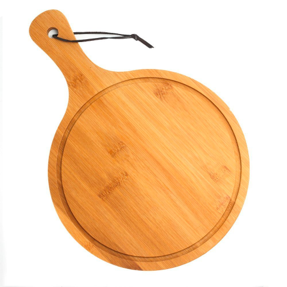
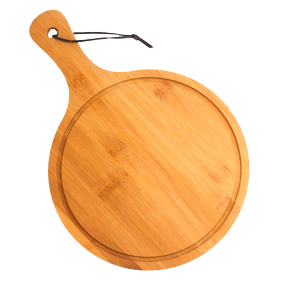
+added slogan +added confirm pizza button +added edit pizza button +added pizza box +removed background of pizza board

diff --git a/components/PizzaPreview/_PizzaPreview.scss b/components/PizzaPreview/_PizzaPreview.scss
@@ -18,39 +18,33 @@
             max-width: 30%;
             top: 44%;
             right: 33%;
-            // height: auto;
         }
         &.medium{
             max-width: 50%;
             top: 34%;
             right: 23%;
-            // height: auto;
         }
 
         &.large{
             max-width: 65%;
             top: 27%;
             left: 20%;
-            // height: auto;
         }
 
         @media only screen and ($tablet) {
             &.small{
                 width: rem(100);
-                // height: rem(100);
                 top: rem(120);
                 left: rem(100);
             }
             &.medium{
                 width: rem(150);
-                // height: rem(150);
                 top: rem(95);
                 right: rem(83);
             }
     
             &.large{
                 width: rem(200);
-                // height: rem(200);
                 top: rem(70);
                 left: rem(50);
             }
@@ -58,8 +52,37 @@
         
     }
 
+    &__dough{
+        width: 100%;
+        height: auto;
+        position: absolute;
+        max-width: 30%;
+        top: 45%;
+        left: 35%;
+
+        @media only screen and ($tablet) {
+            width: 100px;
+            top: 130px;
+            left: 100px;
+        }
+    }
+
+    &__dough-rolling{
+        width: 100%;
+        height: auto;
+        position: absolute;
+        max-width: 60%;
+        top: 40%;
+        left: 27%;
+
+        @media only screen and ($tablet) {
+            top: 120px;
+            left: 70px;
+        }
+    }
+
     &__container{
-        position: relative;
+        position: fixed;
         
     }
     &__topping{
@@ -69,33 +92,28 @@
             left: 41%;
             top: 48%;
             width: 21%;
-            // height: auto;
         }
 
         &.medium{
             left: 34%;
             top: 42%;
             width: 35%;
-            // height: auto;
         }
 
         &.large{
             top: 34%;
             left: 28%;
             width: 50%;
-            // height:auto;
         }
 
         @media only screen and ($tablet) {
             &.small{
                 width: rem(70);
-                // height: auto;
                 top: rem(137);
                 left: rem(110);
             }
             &.medium{
                 width: 110px;
-                // height: auto;
                 top: 120px;
                 left: 95px;
             }
@@ -104,7 +122,6 @@
                 top: rem(95);
                 left: rem(75);
                 width: rem(152);
-                // height: auto;
             }
         }
     }

diff --git a/components/PizzaMaker/PizzaMaker.js b/components/PizzaMaker/PizzaMaker.js
@@ -7,10 +7,14 @@ const PizzaMaker = () => {
 
     const [selectedTopping, setTopping] = useState([]);
     const [pizzaSize, setPizzaSize] = useState("");
+    var [isPizzaReady, setPizzaReady] = useState(false);
+
+
     return(
         <div className= "pizzaMaker">
             <div className = "pizzaMaker__steps">
-                <h1 className = "pizzaMaker__step-title" id="step1"> 1. Choose Your Size</h1>
+                {isPizzaReady != true && <div>
+                    <h1 className = "pizzaMaker__step-title" id="step1"> 1. Choose Your Size</h1>
                     <div className = "pizzaMaker__size-container">
                         <button className = "pizzaMaker__size-selector--size" onClick = {() => setPizzaSize("small")}>
                             <h4 className = "pizzaMaker__size-title">Small</h4> 
@@ -25,12 +29,17 @@ const PizzaMaker = () => {
                             <img className = "pizzaMaker__size-large" src = "/pizza.png"></img>
                         </button>
                     </div>
-                <h1 className = "pizzaMaker__step-title" id="step2"> 2. Choose Your Toppings</h1>
-                    <ToppingsList setTopping = {setTopping} selectedTopping = {selectedTopping} />
-                <h1 className = "pizzaMaker__step-title" id="step3"> 3. Verify your order</h1>
+                
+                    <h1 className = "pizzaMaker__step-title" id="step2"> 2. Choose Your Toppings</h1>
+                        <ToppingsList setTopping = {setTopping} selectedTopping = {selectedTopping} />
+                </div>}
+                <h1 className = "pizzaMaker__step-title" id="step3"> 3. Confirm your order</h1>
+                    {isPizzaReady != false && pizzaSize != "" && <div> You ordered a {pizzaSize} pizza with {selectedTopping.map( item => ( `${item}, `))}</div>}
+                    {isPizzaReady != true &&<button className = "pizzaMaker__make-pizza--button"onClick={() => setPizzaReady(true) }>Make my pizza </button>}
+                    {isPizzaReady != false && <button onClick={() => setPizzaReady(false) }> Edit pizza </button>}
             </div>
             <div className = "pizzaMaker__preview"> 
-                <PizzaPreview selectedTopping = {selectedTopping} pizzaSize = {pizzaSize}/>
+                <PizzaPreview selectedTopping = {selectedTopping} pizzaSize = {pizzaSize} isPizzaReady = {isPizzaReady}/>
             </div>
         </div>
     )

diff --git a/components/PizzaPreview/PizzaPreview.js b/components/PizzaPreview/PizzaPreview.js
@@ -3,8 +3,10 @@ const PizzaPreview = params => {
     return(
         <div className = "pizzaPreview">
             
-            <div className = {`pizzaPreview__container ${params.pizzaSize}`}>
+            {params.isPizzaReady == false && <div className = {`pizzaPreview__container ${params.pizzaSize}`}>
                 <img className = "pizzaPreview__wooden-board" src = "/pizza-board.png"/>
+                {params.pizzaSize == "" && <img className = {`pizzaPreview__dough ${params.pizzaSize}`} src = "/dough.png"></img>}
+                {/* {params.pizzaSize == "" && <img className = {`pizzaPreview__dough-rolling ${params.pizzaSize}`} src = "/dough-to-pizza.png"></img>} */}
                 {params.pizzaSize != "" && <img className = {`pizzaPreview__pizza ${params.pizzaSize}`} src = "/pizza.png"></img>}
                 {params.selectedTopping.includes("Chicken") && <img className = {`pizzaPreview__topping ${params.pizzaSize}`} src = "/Chicken-pieces.png"></img>}
                 {params.selectedTopping.includes("Pepperoni") && <img className = {`pizzaPreview__topping ${params.pizzaSize}`} src = "/pepperoni-pieces.png"></img>}
@@ -16,7 +18,8 @@ const PizzaPreview = params => {
                 {params.selectedTopping.includes("Pineapple") && <img className = {`pizzaPreview__topping ${params.pizzaSize}`} src = "/pineapple-pieces.png"></img>}
                 {params.selectedTopping.includes("Tomato") && <img className = {`pizzaPreview__topping ${params.pizzaSize}`} src = "/tomato-pieces.png"></img>}
                 {params.selectedTopping.includes("Basil") && <img className = {`pizzaPreview__topping ${params.pizzaSize}`} src = "/basil-pieces.png"></img>}
-            </div>
+            </div>}
+            {params.isPizzaReady == true &&<img src="/pizza-box.png"></img>}
            
         </div>
     )

diff --git a/pages/index.js b/pages/index.js
@@ -5,11 +5,12 @@ export default function Home() {
   return (
     <div>
       <Head>
-        <title>Build Your Pizza!</title>
+        <title>Pizza Builder!</title>
         <link rel="icon" href="/favicon.svg" />
       </Head>
       <GlobalHeader/>
-      <StepMenu/>
+      <h1 className= "intro-slogan">Create your pizza in 3 simple steps! </h1>
+      {/* <StepMenu/> */}
       <PizzaMaker/>
     </div>
   )

diff --git a/components/PizzaMaker/_PizzaMaker.scss b/components/PizzaMaker/_PizzaMaker.scss
@@ -7,6 +7,9 @@
     max-width: rem(618);
     // justify-content: center;
 
+    &__make-pizza--button{
+        margin-bottom: 300px;
+    }
     @media only screen and ($tablet) {
         margin-left: auto;
         margin-right: auto;

diff --git a/styles/app.scss b/styles/app.scss
@@ -2,3 +2,10 @@
 @import "../components/components";
 
 
+.intro-slogan{
+    text-align: center;
+    margin-top: rem(50);
+    margin-bottom: rem(100);
+    font-family: "Roboto", sans-serif;
+    font-size: rem(20);
+}
